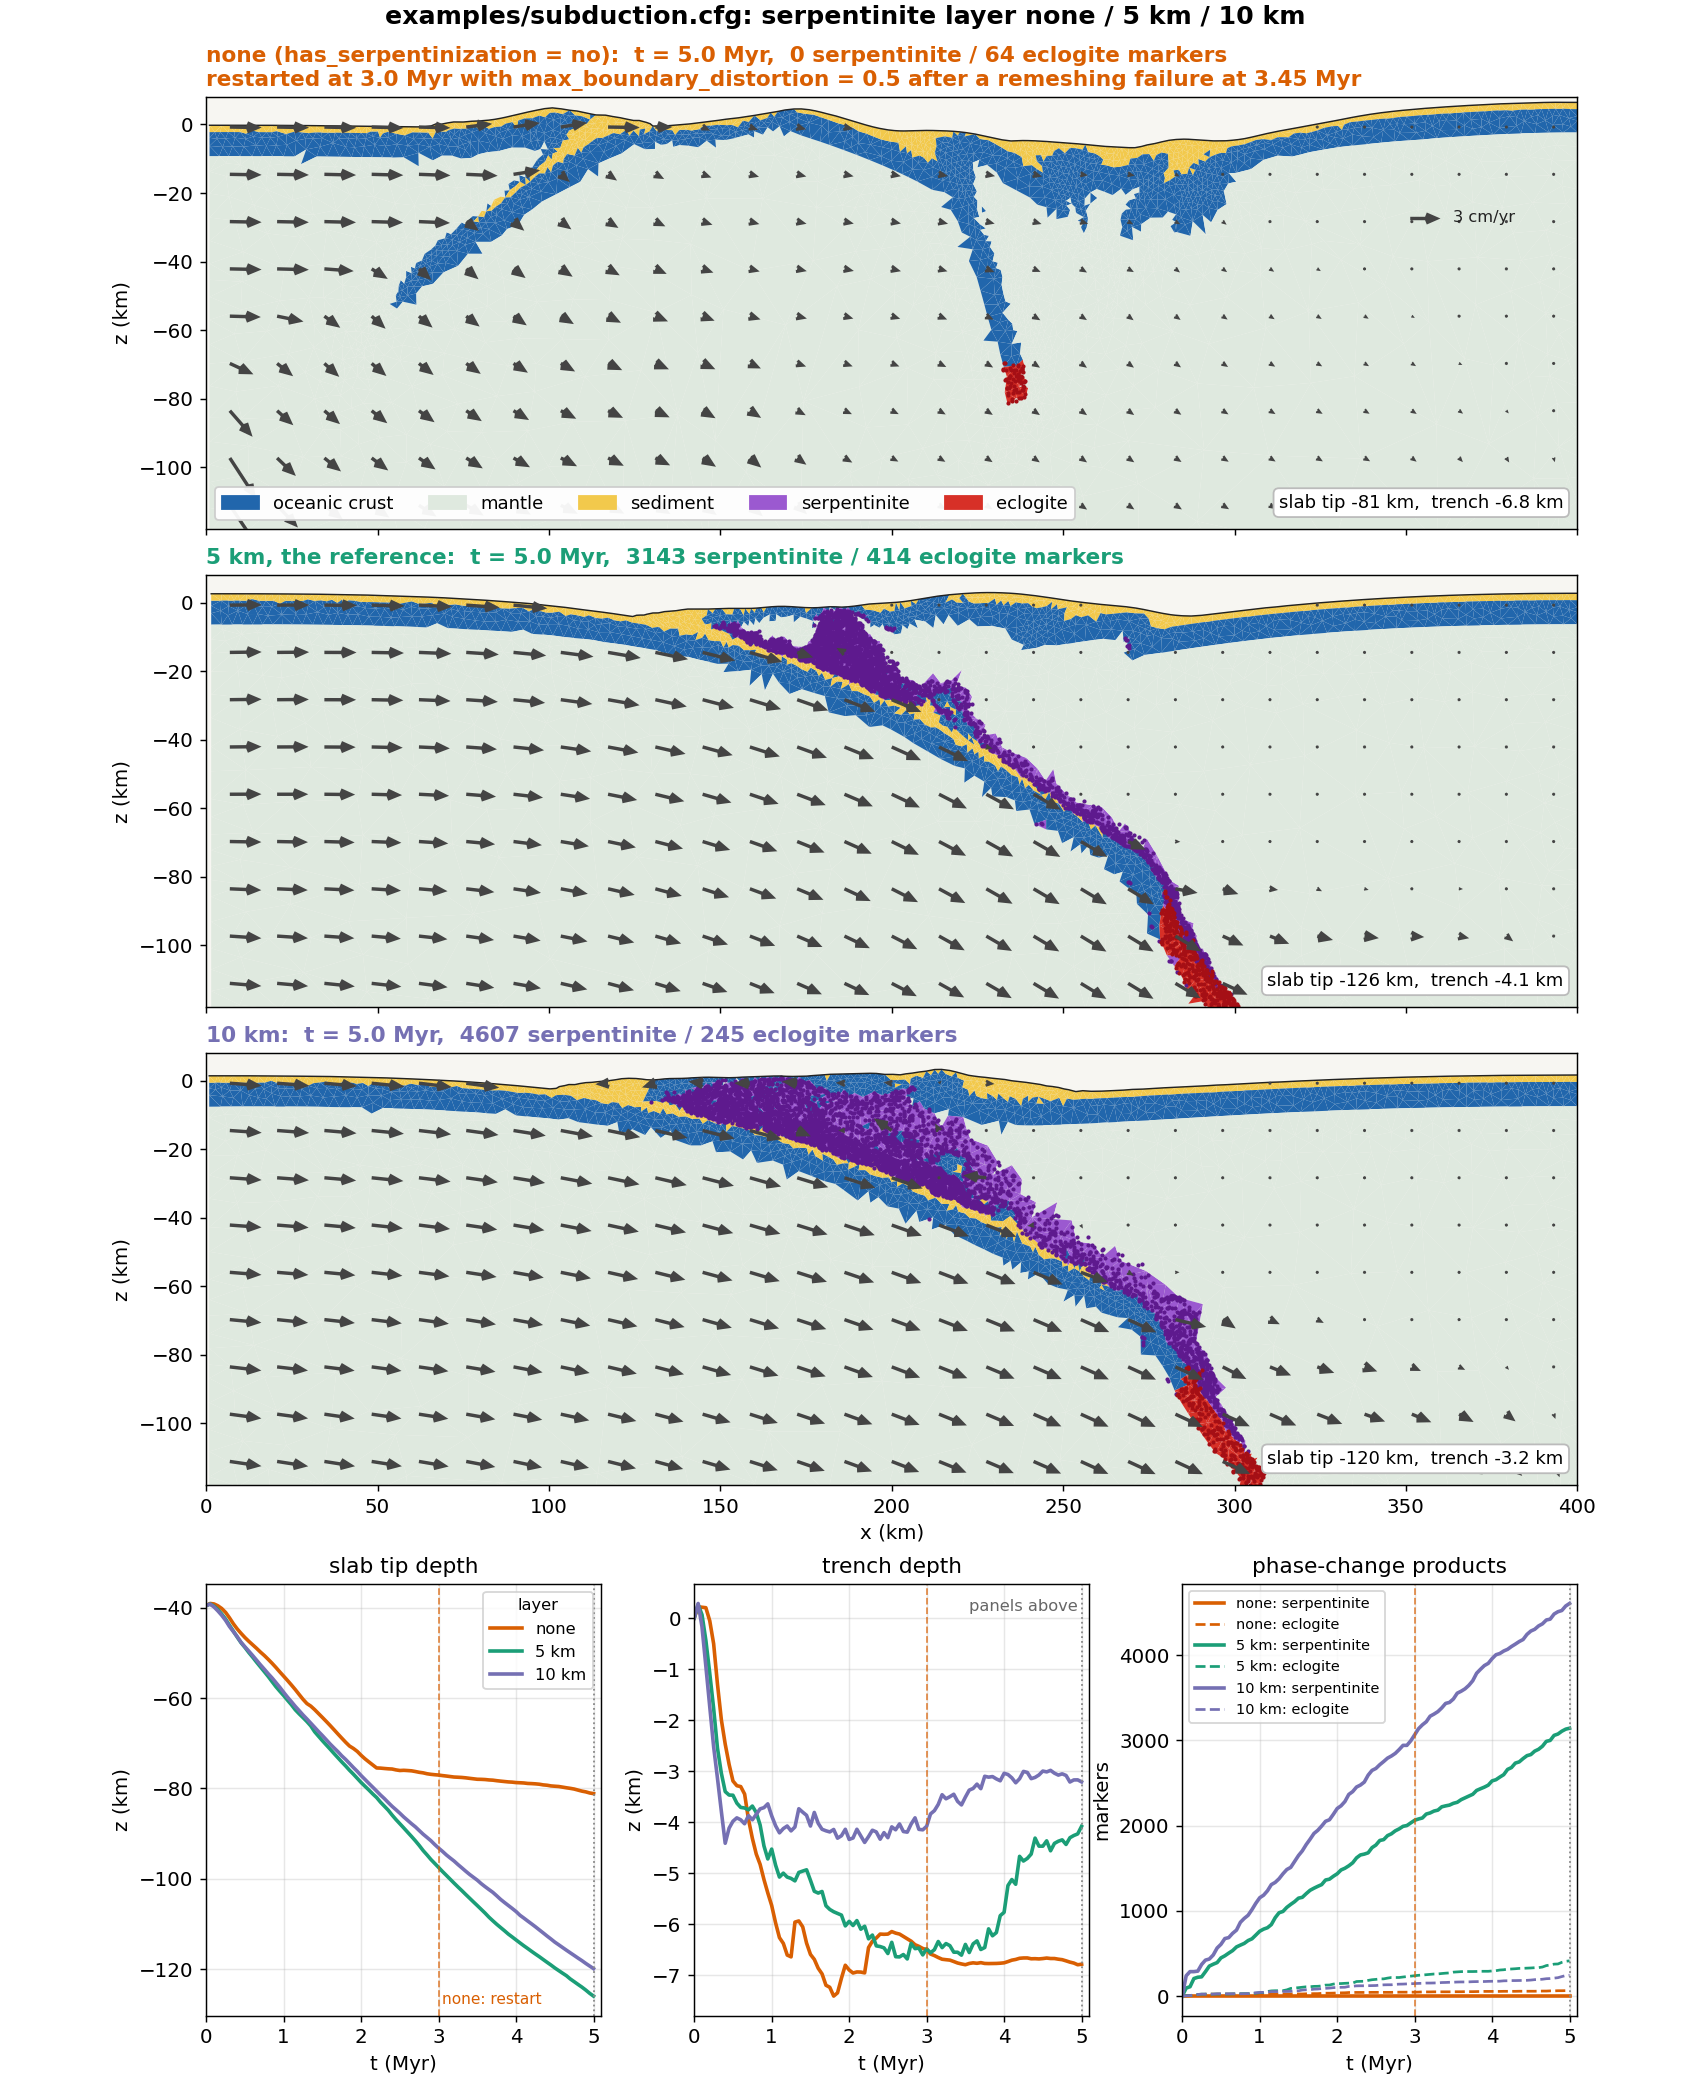
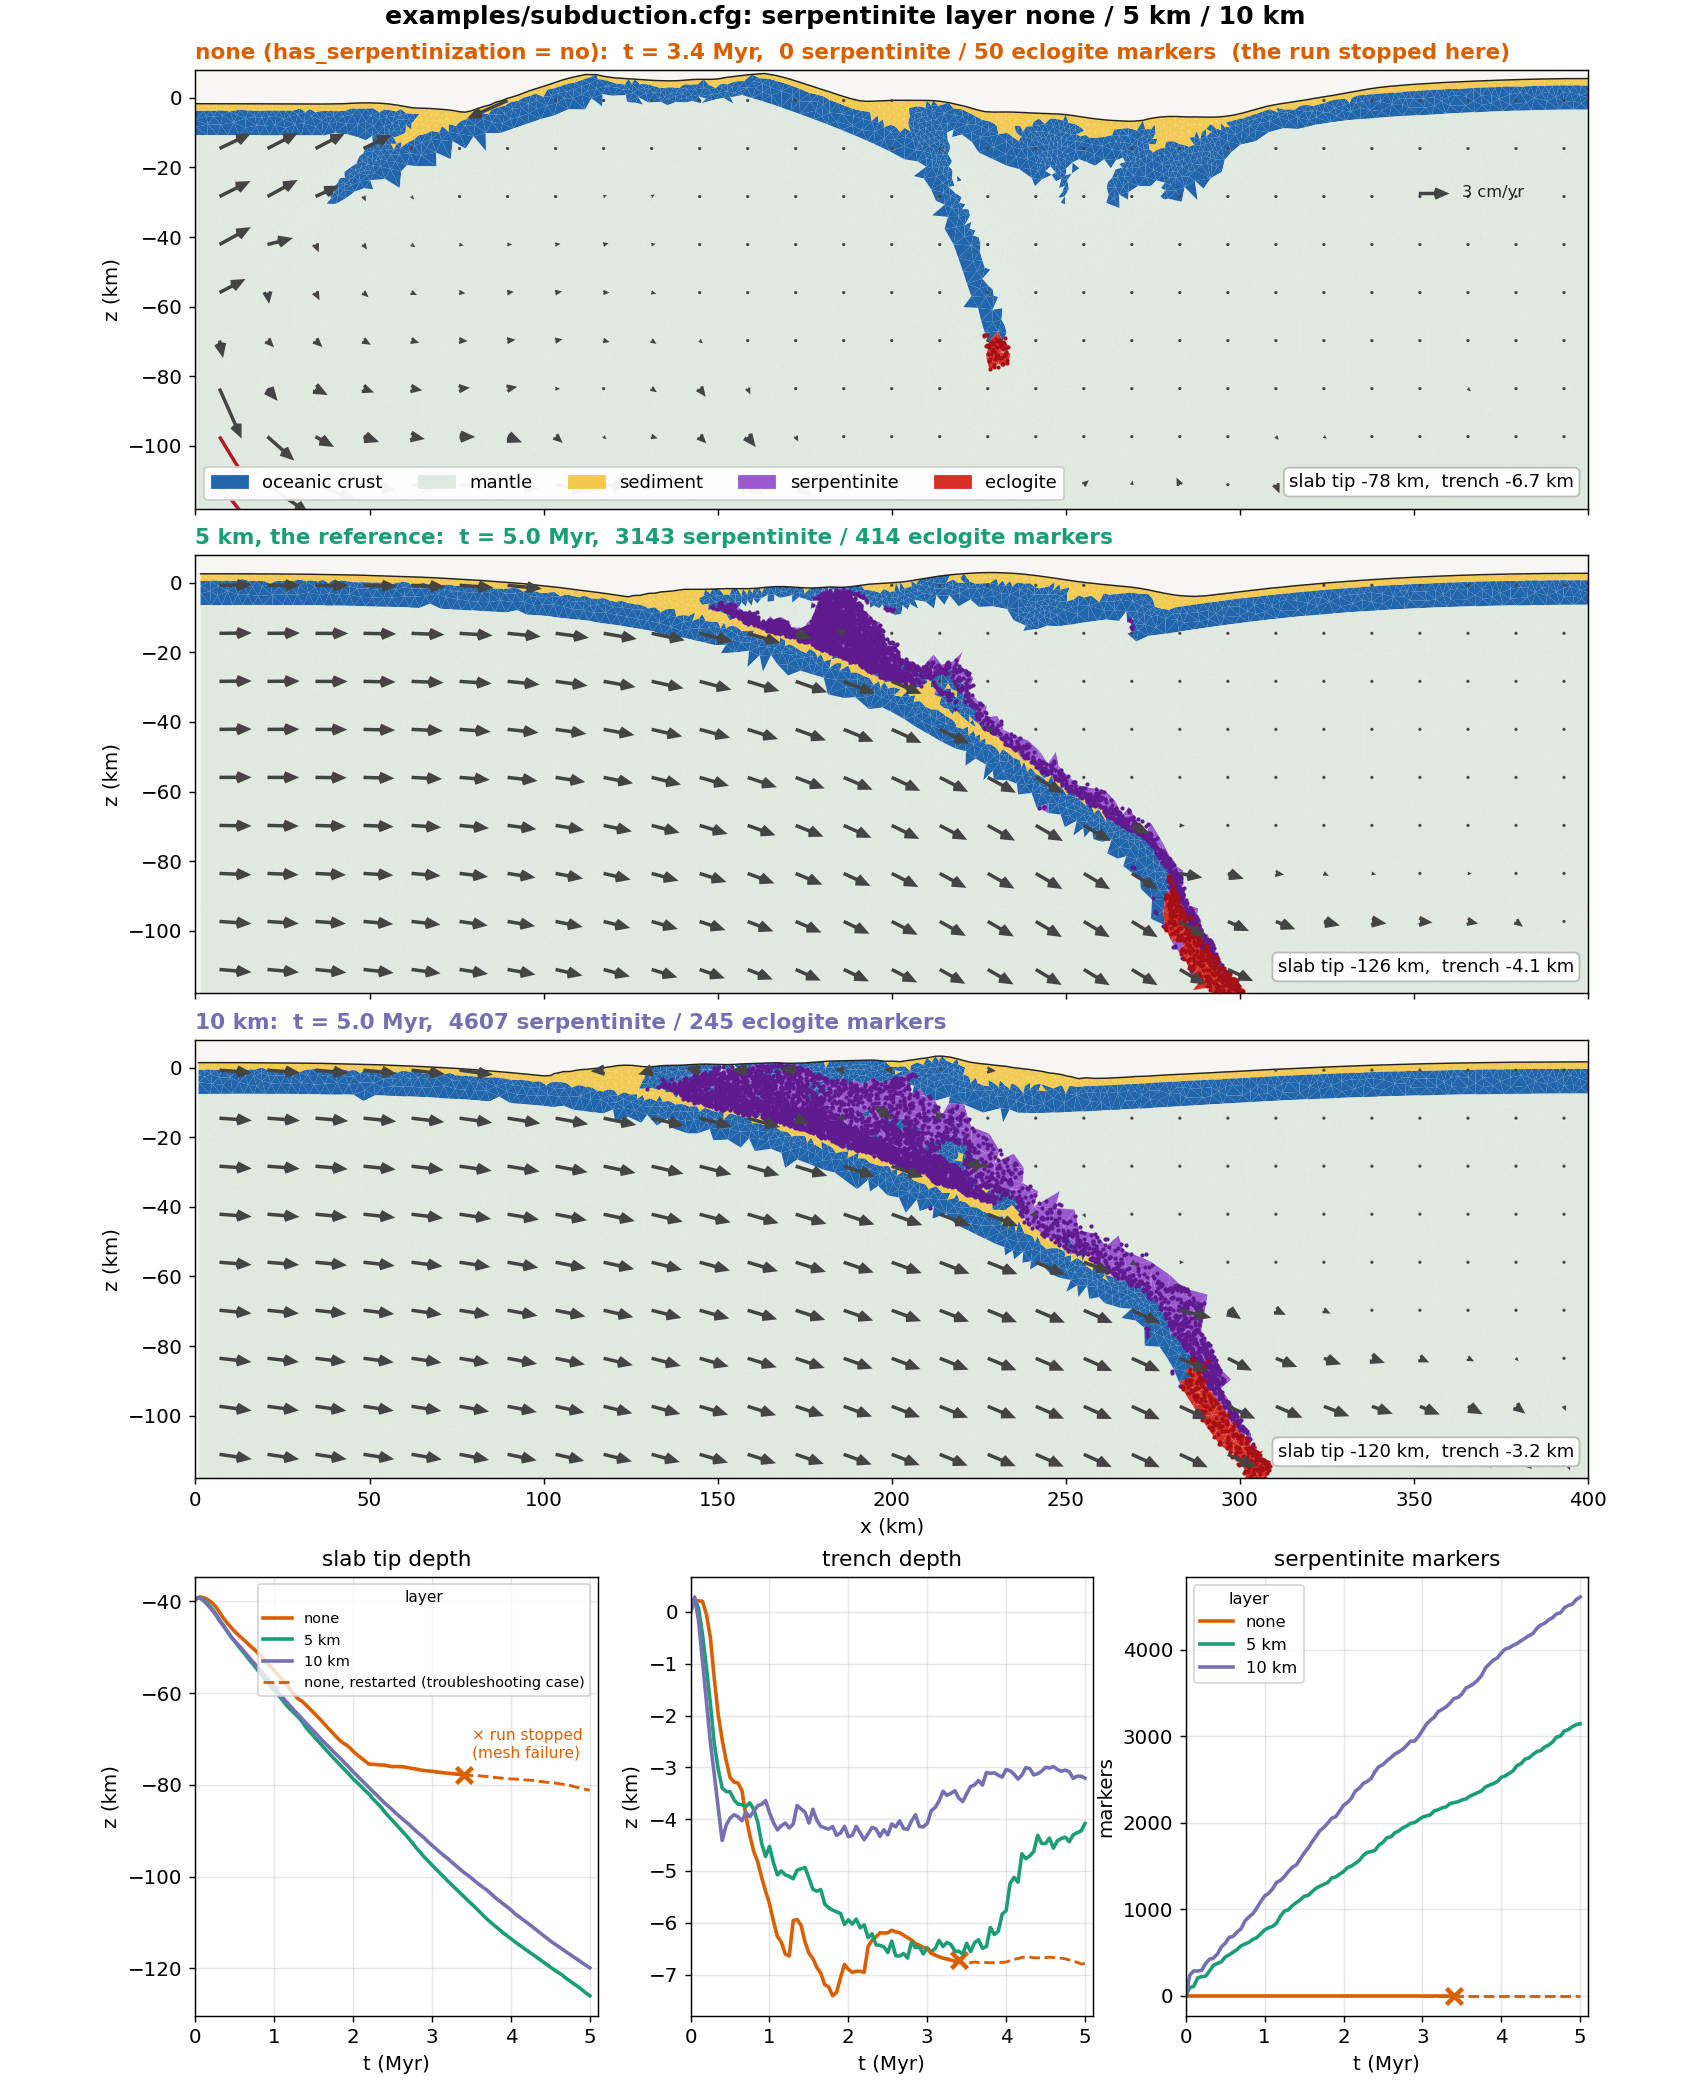
docs: place the tectonics tutorial before GoSPL, fix its links, finish the thickness figure
The tutorial moves to sidebar position 7, after rate-and-state friction,
and the GoSPL page to 8. Prerequisites are rewritten around the pages
that now precede it. Internal links become file-path links, since the
installation page is published at /docs/usage and the bare URL form was
a dead link on the deployed site. "What you will learn" covers phase
changes, remeshing triggers and the restart case. The thickness figure
shows the 5 and 10 km runs at 5 Myr and the failed run where it stopped,
with its restart as a dashed history in the time series.

diff --git a/docs/tutorial/tectonics.md b/docs/tutorial/tectonics.md
@@ -1,5 +1,5 @@
 ---
-sidebar_position: 6
+sidebar_position: 7
 title: Tectonic rifting and subduction
 description: Set up, run and interpret rifting and subduction models with DynEarthSol
 ---
@@ -20,23 +20,41 @@ case takes minutes on a laptop; the second takes hours.
 ## What you will learn
 
 - How a DES `.cfg` file is organized and which sections matter for tectonics
-- How Mohr–Coulomb plasticity with strain softening produces faults
-- How to seed deformation with a weak zone and drive it with velocity boundary conditions
-- How remeshing keeps a Lagrangian mesh usable, and what MMG adds
-- How to build a layered or slab-shaped initial geometry with a `.poly` file
-- How to read the output: plastic strain, topography, viscosity, temperature
+- How Mohr–Coulomb plasticity with strain softening produces faults, and how
+  a weak zone and the wall velocities decide where and how fast
+- How a slab-shaped initial geometry is built with a `.poly` file
+- How marker phase changes add serpentinite and eclogite as the slab descends,
+  and what the virtual-topology grid does for them
+- How remeshing keeps a Lagrangian mesh usable, what triggers it, and how MMG
+  refines along the faults and the plate interface
+- How to read the output: plastic strain, topography, viscosity, temperature,
+  material and velocity
+- How to diagnose a run that stops in a remeshing failure and carry it on
+  from a checkpoint with a changed parameter
 
 ## Prerequisites
 
-Before starting, ensure you have:
+This tutorial follows the ones before it in this section and uses what they
+cover. Before starting, ensure you have:
 
-- ✅ DynEarthSol compiled in 2D (`make ndims=2`); see [Build](../usage/usage)
-- ✅ Python 3 with `numpy` for `2vtk.py`
-- ✅ [ParaView](https://www.paraview.org/) or another VTK viewer
-- ✅ Read [Making a complex mesh with `.poly` file](./usingpolyfile) (needed for Part 2)
+- ✅ DynEarthSol compiled in 2D (`make ndims=2`); see [Build](../usage/usage.md)
+  and [Running DES3D](../usage/run.md)
+- ✅ Python 3 with `numpy` for `2vtk.py`, and
+  [ParaView](https://www.paraview.org/) or another VTK viewer; see
+  [Visualizing outputs](../usage/visualize.md)
+- ✅ Read [Making a complex mesh with `.poly` file](./usingpolyfile.md): Part 2
+  reads its slab geometry from one
+- ✅ Read [Weak zones](./weakzone.md): Part 1 seeds a fault with a planar weak
+  zone and Part 2 the plate interface with a segment one
 - ⬜ Optional: an MMG build (`make ndims=2 usemmg=1`) for the adaptive-remeshing
-  boxes. MMG is a git submodule that `make` fetches and builds for you; see
-  [Adaptive mesh refinement with MMG](./usingmmg)
+  boxes and Exercise 2. MMG is a git submodule that `make` fetches and builds
+  for you; see [Adaptive mesh refinement with MMG](./usingmmg.md)
+
+[Velocity boundary conditions (3D)](./vbc.md) and
+[Rate-and-state friction](./rate-state-friction.mdx) are not needed here: both
+examples are 2D with steady wall velocities and no earthquake cycles. The
+next tutorial, [Coupling with GoSPL](./couplinggospl.md), adds surface processes
+to models like these.
 
 :::tip Which build?
 The examples in this tutorial are 2D. A 3D build (`make`) runs the same
@@ -76,7 +94,7 @@ location of localization is uncontrolled and depends on mesh noise. A weak
 zone is a region given an initial plastic strain `weakzone_plstrain`, which
 pre-softens it and pins the first fault. Part 1 uses a planar seed
 (`weakzone_option = 1`), Part 2 a dipping multi-segment one. The other shapes
-are described in [Weak zones](./weakzone).
+are described in [Weak zones](./weakzone.md).
 
 ### Driving deformation: velocity boundary conditions
 
@@ -106,7 +124,7 @@ fields onto it. `remeshing_option = 11` restores the bottom boundary to its
 initial depth. Markers carry material identity across remeshes. With MMG the
 rebuild is adaptive: elements are sized from accumulated plastic strain, so
 faults get finer elements and the quiet far field stays coarse. See
-[Remeshing](../theory/remeshing) and [MMG](./usingmmg).
+[Remeshing](../theory/remeshing.md) and [MMG](./usingmmg.md).
 
 ## Part 1: Rifting a brittle crust (core complex)
 
@@ -211,7 +229,7 @@ Section by section:
   remesh.
 - **`[control]`** turns on surface diffusion and sets the mass scaling.
   `inertial_scaling` is the factor by which density is inflated to lengthen
-  the elastic time step; see [Mass scaling](../theory/massscaling). With no
+  the elastic time step; see [Mass scaling](../theory/massscaling.md). With no
   viscosity in play, this parameter and the element size set `dt`.
 - **`[bc]`** pulls the two walls apart at 3.15 cm/yr each. The `vbc_y*`
   lines matter only in 3D. Water loading is off because the surface starts at
@@ -280,7 +298,7 @@ surface_diffusivity = 1e-6
 inertial_scaling = 1e4
 ```
 
-The build is described in [Adaptive mesh refinement with MMG](./usingmmg).
+The build is described in [Adaptive mesh refinement with MMG](./usingmmg.md).
 The full parameter list, with a one-line tuning rule for each, is in the
 `[mesh]` section of
 [`examples/defaults.cfg`](https://github.com/GeoFLAC/DynEarthSol/blob/master/examples/defaults.cfg)
@@ -350,7 +368,7 @@ Change one parameter at a time, and keep a log of what you changed.
 `core-complex.cfg` has no mantle, no temperature and no viscosity.
 [`examples/rifting-2d.cfg`](https://github.com/GeoFLAC/DynEarthSol/blob/master/examples/rifting-2d.cfg)
 adds all three: a 500 × 150 km crust-over-mantle lithosphere read from a
-`.poly` file (the one used in [Making a complex mesh](./usingpolyfile)),
+`.poly` file (the one used in [Making a complex mesh](./usingpolyfile.md)),
 `elasto-visco-plastic` rheology, a 100 Myr half-space geotherm and a Gaussian
 weak zone. It runs for 2 Myr at 6 km resolution. Everything in Part 2 that
 is new relative to Part 1 appears there first, so it is a good intermediate
@@ -397,7 +415,7 @@ a side wall.
 A subducting slab needs a pre-existing dipping interface, which a weak zone
 alone cannot supply. `poly-subduction.poly` defines it as a region of oceanic
 crust already inside the mantle, following
-[Making a complex mesh with `.poly` file](./usingpolyfile):
+[Making a complex mesh with `.poly` file](./usingpolyfile.md):
 
 ```
  0------------------------------------------7  z = 0: top, free surface
@@ -683,7 +701,7 @@ is the rule switched off.
 | Reference | 5 km | `serpentinization_thickness = 5e3` (one cell) | Steady subduction to 125 km at 5 Myr; trench 6 km deep at 2 Myr, recovering to 4 km; about 3100 serpentinite and 400 eclogite markers |
 | Thick | 10 km | `serpentinization_thickness = 10e3` (two cells) | Half again as much serpentinite (4600 markers) in a wedge body that reaches further down the slab; trench 1.5 km shallower throughout; slab tip 120 km; 40 % fewer eclogite markers |
 
-![Serpentinite layer none, 5 km and 10 km across the whole 400 km domain at 3.4 Myr, the last frame the run without serpentinite reached: material, phase-change markers and velocity arrows per run, then slab-tip depth, trench depth and marker counts against time to 5 Myr](./img/tectonics/subduction-serp-thickness.png)
+![Serpentinite layer none, 5 km and 10 km across the whole 400 km domain, the 5 km and 10 km runs at 5 Myr and the run without serpentinite at 3.4 Myr where it stopped: material, phase-change markers and velocity arrows per run, then slab-tip depth, trench depth and marker counts against time to 5 Myr](./img/tectonics/subduction-serp-thickness.png)
 
 What the comparison shows:
 
@@ -769,10 +787,10 @@ Change one parameter at a time, and keep a log of what you changed.
 ## Next Steps
 
 - Copy the example files to start your own model, rather than writing configs from scratch
-- Add surface processes with [GoSPL coupling](./couplinggospl)
-- Refine the mesh around faults with [MMG](./usingmmg)
+- Add surface processes with [GoSPL coupling](./couplinggospl.md)
+- Refine the mesh around faults with [MMG](./usingmmg.md)
 - Go to 3D with `oblique-rift-3d.cfg` and `conjugate-faults-3d.cfg`; see
-  [Velocity boundary conditions (3D)](./vbc) and [Weak zones](./weakzone)
+  [Velocity boundary conditions (3D)](./vbc.md) and [Weak zones](./weakzone.md)
 
 {/* TODO: add a references bullet — Choi et al. 2013 (DES paper), Lavier,
     Buck & Poliakov 1999 and 2000 (core complex), Tan et al. 2012 (interface
